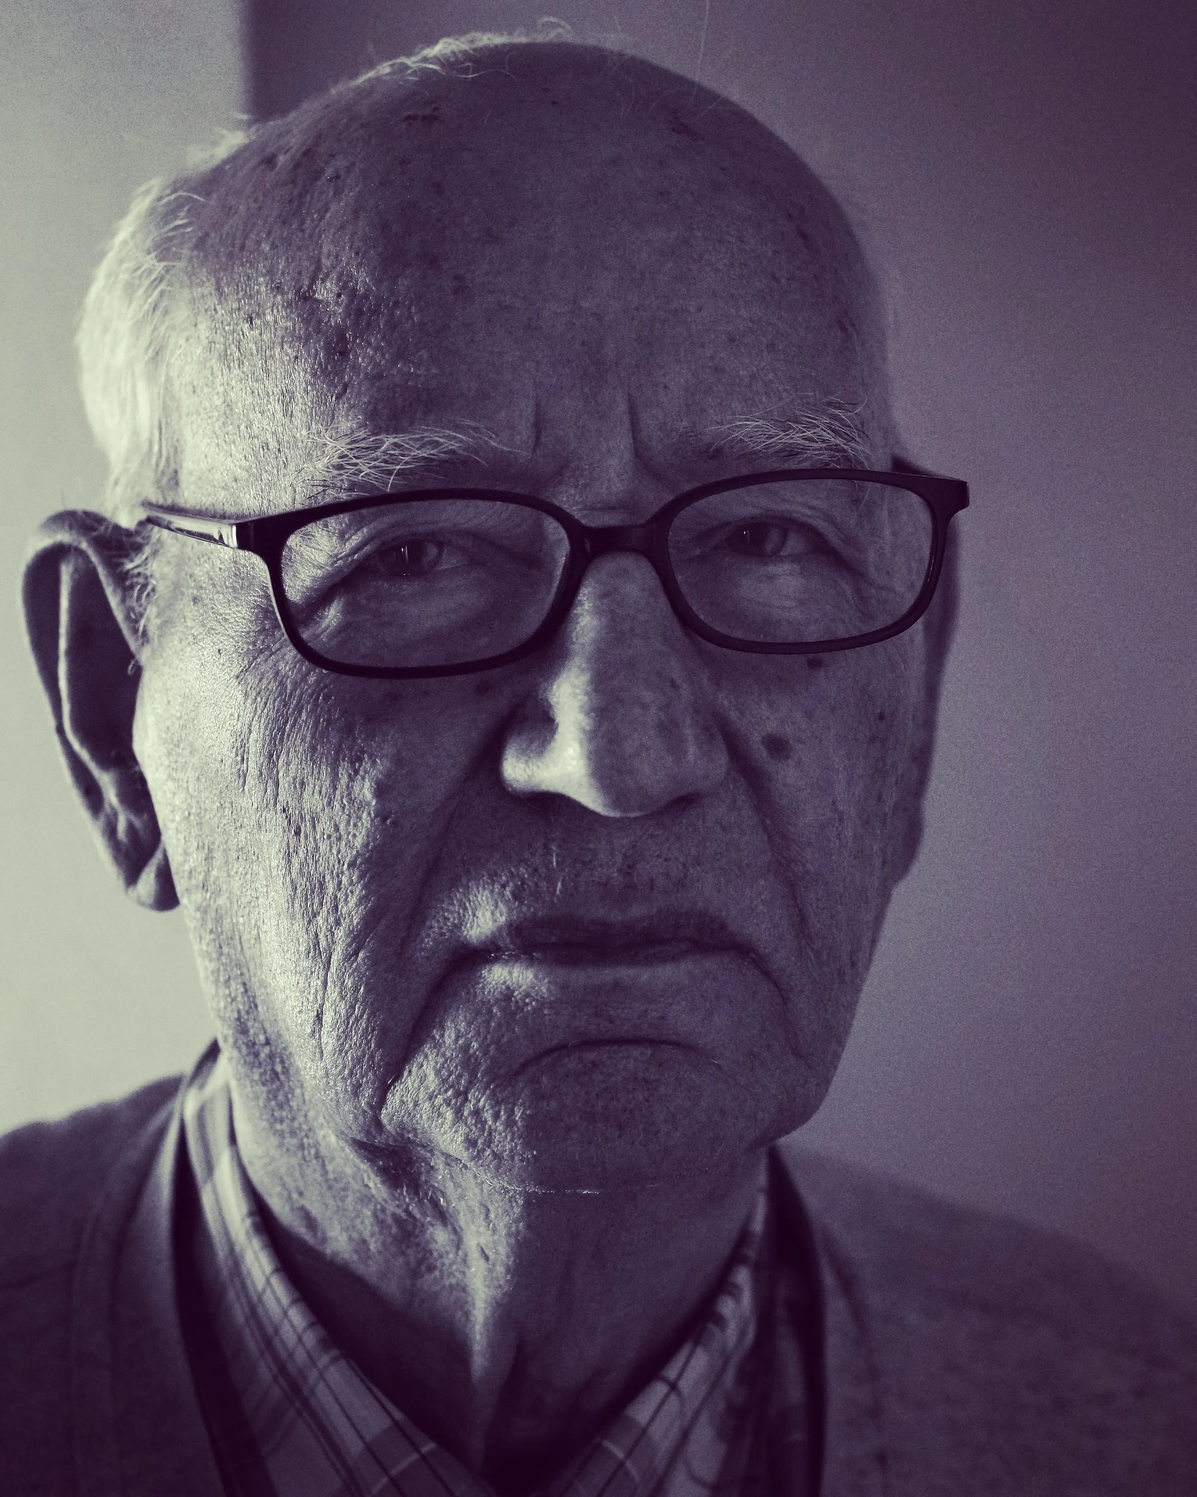
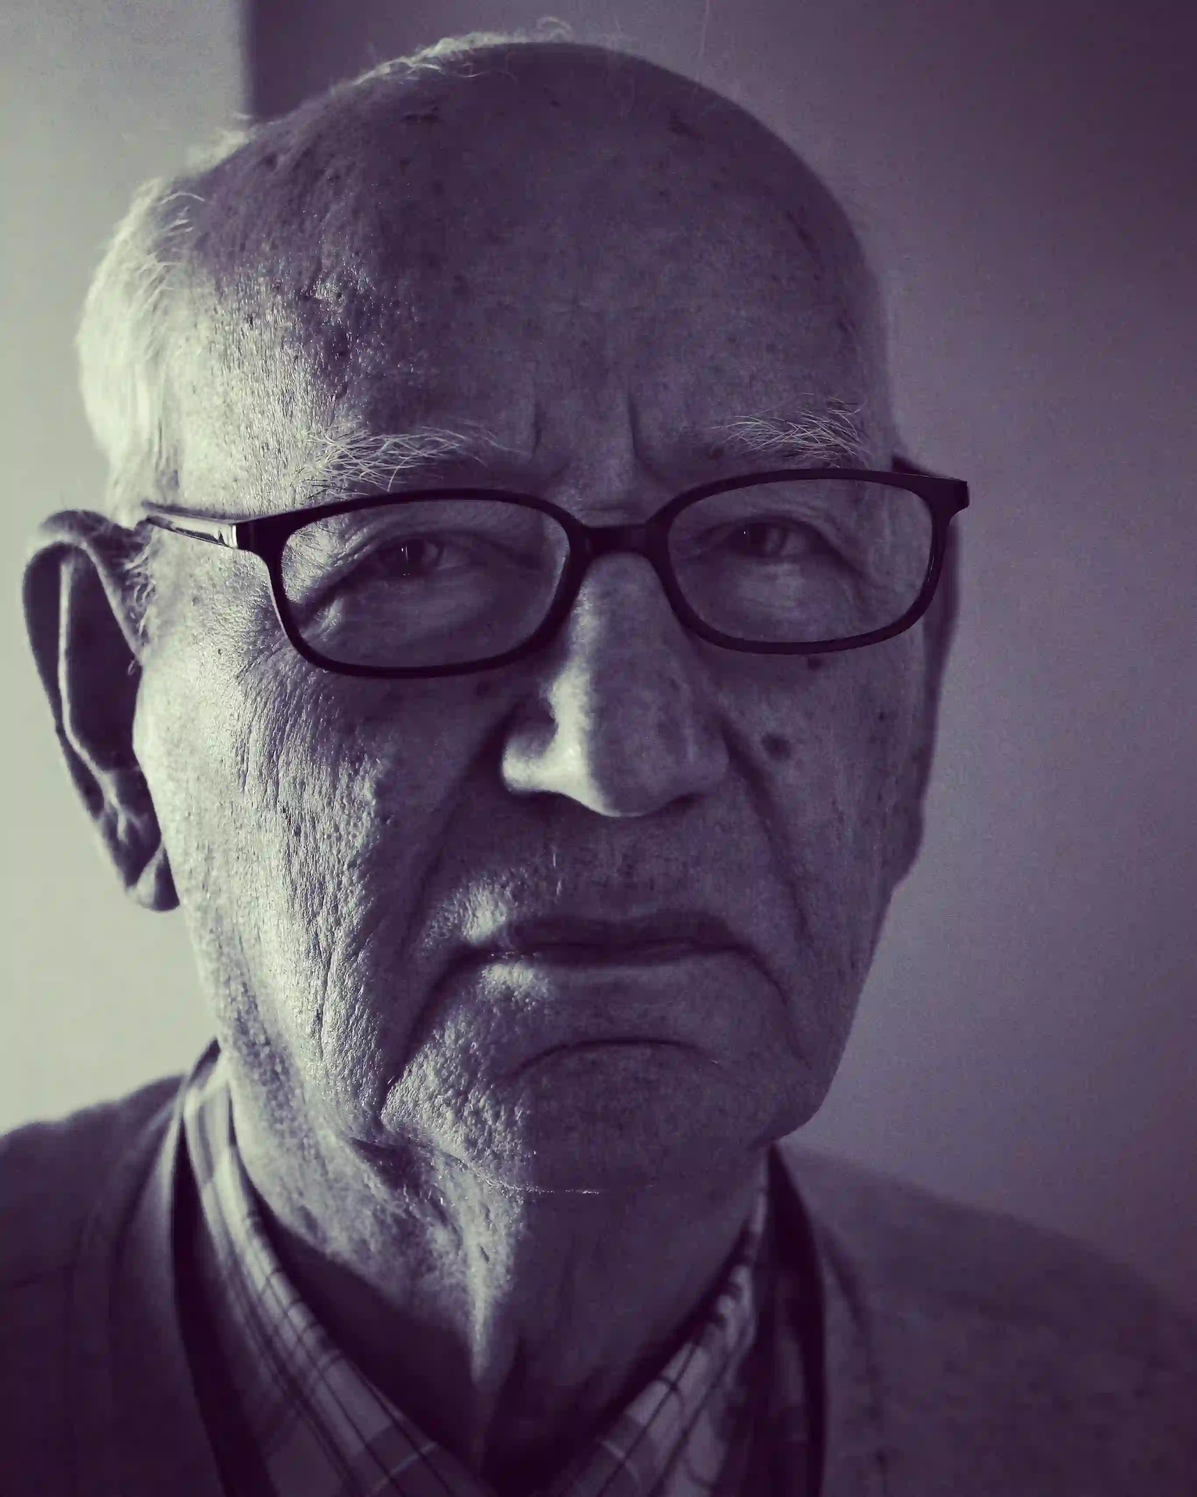
compress pics

Changed region(s): [[0.1556, 0.1863, 0.4357, 0.8073], [0.6536, 0.2794, 0.7159, 0.3105]]

diff --git a/css/style.css b/css/style.css
@@ -1,1 +1,1 @@
-.main-info p,.main-info__title,.nav__link.active{text-align:center}header .header__content,header .header__user-block{display:flex;display:flex;display:flex;display:flex}header .header__menu li a,header .header__user-block a{display:block}main .actors .swiper-slide:nth-child(3) img,main .main-info__bg{object-position:top}:root{--mar-reg:"Marcellus-Regular",sans-serif;--mul-reg:"Mulish-Regular",sans-serif;--mul-sem-bld:"Mulish-SemiBold",sans-serif;--mul-ext-bld:"Mulish-ExtraBold",sans-serif}*{box-sizing:border-box}img{max-width:100%}body{font-family:var(--mar-reg);background-color:#000;margin:unset}a{text-decoration:unset}ul{padding:unset}h2{font-family:var(--mul-sem-bld);font-size:20px}h1,p,span{color:#fff}.actors .actors__block,.genres .genres__block,button,li a{cursor:pointer}.actors .actors__block:hover,.genres .genres__block:hover,button:hover{transform:scale(1.05)}li:hover a{color:#fff!important;opacity:1!important}.main-info__rating,.news .news__block p,.registrate h2,button{font-family:var(--mul-ext-bld)!important;border:unset}.main-info__sub-title{font-family:var(--mul-reg);color:#c2c2c2;font-size:18px}.actors .swiper-slide p,.genres p,.nav__link,.trending__title{font-family:var(--mul-sem-bld)}.wrapper{padding:0 16px;overflow:hidden;max-width:1600px;margin:0 auto}.nav__link.active{opacity:1;padding-bottom:5px;background:linear-gradient(to left,#26fff2 50%,#326cff 100%) left bottom no-repeat;background-size:100% 2px}header .header__content{padding:16px 0;position:relative;align-items:center}.footer,header .header__menu{margin:0 -16px;padding:0 16px}header .header__home{width:100px}header .header__menu{position:absolute;bottom:-140px;width:-webkit-fill-available;width:-moz-available;left:0;backdrop-filter:blur(5px);z-index:2;text-align:center}header .header__menu li{margin-bottom:10px}header .header__user-block{justify-content:space-between;width:30%;margin:0 auto}header .header__menu{display:none}header .header__menu a{color:#fff}header .header__burger{display:flex;justify-content:flex-end;background:unset;padding:unset;border:unset!important}header .header__burger #nav-icon1{width:30px;height:45px;position:relative;-webkit-transform:rotate(0);-moz-transform:rotate(0);-o-transform:rotate(0);transform:rotate(0);-webkit-transition:.5s ease-in-out;-moz-transition:.5s ease-in-out;-o-transition:.5s ease-in-out;transition:.5s ease-in-out;cursor:pointer}header .header__burger #nav-icon1 span,header .header__burger #nav-icon3 span,header .header__burger #nav-icon4 span{display:block;position:absolute;height:3px;width:100%;background:#fff;border-radius:9px;opacity:1;left:0;-webkit-transform:rotate(0);-moz-transform:rotate(0);-o-transform:rotate(0);transform:rotate(0);-webkit-transition:.25s ease-in-out;-moz-transition:.25s ease-in-out;-o-transition:.25s ease-in-out;transition:.25s ease-in-out}header .header__burger #nav-icon1 span:first-child{top:10px}header .header__burger #nav-icon1 span:nth-child(2){top:20px}header .header__burger #nav-icon1 span:nth-child(3){top:30px}header .header__burger #nav-icon1.open span:first-child{top:18px;-webkit-transform:rotate(135deg);-moz-transform:rotate(135deg);-o-transform:rotate(135deg);transform:rotate(135deg)}header .header__burger #nav-icon1.open span:nth-child(2){opacity:0;left:-60px}header .header__burger #nav-icon1.open span:nth-child(3){top:18px;-webkit-transform:rotate(-135deg);-moz-transform:rotate(-135deg);-o-transform:rotate(-135deg);transform:rotate(-135deg)}main .section,main .trending{margin-bottom:50px}main .section h2{color:#fff;position:relative;padding-left:19px}main .section h2::before{content:"";position:absolute;left:0;top:0;width:6px;height:100%;background:linear-gradient(261deg,#26fff2,#326cff) border-box;border-radius:5px}main .section h2 span{height:20px;display:inline-block;width:20px;position:relative;top:4px}main .section h2 span::after,main .section h2 span::before{position:absolute;border-radius:.5px;content:"";display:inline-block;width:10px;height:2px;background-color:#fff;top:50%;transform-origin:100%}main .section h2 span::before{transform:rotate(45deg) translate(0,-50%)}main .section h2 span::after{transform:rotate(-45deg) translate(2px,-50%)}main .main-info{overflow:hidden;margin:0 -16px 50px;padding:0 16px 30px;position:relative;display:flex;flex-direction:column;align-items:center;max-height:400px;height:130vw;justify-content:space-between}main .main-info__bg{position:absolute;z-index:-1;left:0;opacity:.5;object-fit:cover}main .main-info__title{font-size:35px;margin:27px;max-width:300px}main .main-info__sub-title{max-width:500px}main .main-info__rating{display:flex;justify-content:space-around;width:100%;max-width:300px}main .main-info__buttons .watch,main .registrate__btn,main .trending__btn{align-items:center;background:linear-gradient(#26fff2,#326cff);margin-right:25px;color:#fff;display:flex}main .main-info__rating span:nth-child(2){position:relative;padding:1px 15px}main .main-info__rating span:nth-child(2)::before{content:"";position:absolute;top:0;left:0;right:0;bottom:0;border-radius:50px;border:2px solid transparent;background:linear-gradient(320deg,#26fff2,#326cff) border-box;-webkit-mask:linear-gradient(#fff 0 0) padding-box,linear-gradient(#fff 0 0);-webkit-mask-composite:destination-out;mask-composite:exclude}main .main-info__buttons{display:flex}main .main-info__buttons button{padding:10px 15px;border-radius:30px}main .main-info__buttons .watch img{width:14px;margin-right:10px}main .main-info__buttons .more-inf{background-color:#fff}main .trending__container .block img{border-radius:20px;height:100%}main .registrate__btn,main .trending__btn{margin-top:15px;padding:10px 15px;border-radius:30px}main .genres__block{display:flex;align-items:center;flex-direction:column;justify-content:center;border-radius:20px;padding:25px 0 0}main .genres__block img{width:84px;height:84px}main .genres .romance{background:linear-gradient(152deg,#fd093f 0,#f383f1 100%)}main .genres .drama{background:linear-gradient(152deg,#0fffda 0,#3cdb77 100%)}main .genres .historical{background:linear-gradient(152deg,#b936ff 0,#57deda 100%)}main .genres .action{background:linear-gradient(152deg,#fd093f 1%,#fb1378 10%,#fccb1a 100%)}main .genres .sci-fi{background:linear-gradient(152deg,#ff6472 10%,#fda75d 100%)}main .genres .horror{background:linear-gradient(126deg,#13547a 7%,#80d0c7 156%)}main .genres .comedy{background:linear-gradient(90deg,#fff77b 0,#ffbf42 30%)}main .genres .documentary{background:linear-gradient(152deg,#1fa2ff 10%,#1fa2ff 10%,#1f535c 100%)}main .actors .swiper-slide{display:flex;flex-direction:column;align-items:center}main .actors__block{width:190px;overflow:hidden;border-radius:50%;height:190px;position:relative}main .actors__block img{border-radius:50%;object-fit:cover;width:100%;height:190px}main .actors .swiper-slide:first-child img{transform:scale(1.3);position:absolute;bottom:-30px;left:5px}main .actors .swiper-slide:nth-child(2) img{transform:scale(1.8);position:absolute;bottom:-70px}main .actors .swiper-slide:nth-child(4) img{-webkit-transform:scaleX(-1);transform:scaleX(-1)}main .actors .swiper-slide:nth-child(5) img{transform:scale(1.1);position:absolute;height:auto;top:-25px}main .actors .swiper-slide:nth-child(6) img{transform:scale(2.2);position:absolute;height:auto;top:120px;left:30px}main .news__block{min-height:150px;display:flex}main .news__block:first-child img{border-radius:10px 10px 0 0}main .news__block:nth-child(2){justify-content:center;height:48vw;display:flex;flex-direction:column;align-items:center;background:linear-gradient(90deg,#070e3d 0,#04071f 28%,#000 65%);border-radius:0 0 10px 10px}main .news__block:nth-child(2) p{font-size:30px;margin:10px 0}main .news__block:nth-child(2) img{width:50vw;max-width:400px}main .registrate{background:url("../img/registrate-bg.png") center no-repeat;min-height:270px;display:flex;flex-direction:column;align-items:center;justify-content:center;border-radius:20px}main .registrate h2{all:unset;color:#fff;font-size:28px;font-weight:700;line-height:normal;text-align:center!important;margin-bottom:20px}main .registrate h2::before{content:unset}.footer{background-color:#101012}.footer__container{padding:20px 0;display:flex;flex-direction:column;align-items:center;justify-content:center}.footer__container a{color:#c2c2c2;opacity:.5;display:block;padding:5px 0}.footer__block:first-child a{opacity:1}.footer__block:nth-child(2){display:flex;flex-wrap:wrap}.footer__block:nth-child(2) ul{width:50%}.footer__block:nth-child(2) ul li{display:block;list-style:unset}.footer__block:nth-child(2) ul li a{display:block}@media (min-width:1200px){h2{font-size:28px;margin-bottom:40px}.wrapper{padding:0 80px}header{padding:15px 0}header .header__content{display:grid;grid-template-columns:repeat(5,1fr);grid-template-rows:1fr;grid-column-gap:0px;grid-row-gap:0px;justify-items:end;align-items:center;padding:unset}header .header__home{grid-area:1/1/2/2;width:100%}header .header__menu{grid-area:1/2/2/5}header .header__menu,header .header__user-block{display:flex}header .header__burger{display:none}header .header__menu{display:flex;width:100%;justify-content:center;position:unset}header .header__menu ul{padding:unset;max-width:385px;display:flex;width:100%;justify-content:space-between}header .header__menu ul li a{color:#fff;opacity:.5}header .header__user-block{grid-area:1/5/2/6;display:flex;justify-content:space-between;width:100%;max-width:207px}main .main-info{margin:0 -80px 62px 0;max-height:unset;height:764px;align-items:flex-start;justify-content:center}main .main-info__title{text-align:start;font-size:80px;line-height:70px;width:532px;font-weight:400;margin-bottom:32px;max-width:unset;margin-left:unset}main .main-info__sub-title{text-align:start;margin:35px 0}main .main-info__bg{left:unset;right:0;opacity:1;overflow:auto;-webkit-mask-image:linear-gradient(90deg,transparent 5%,rgb(0,0,0) 15%,rgb(0,0,0) 44%,transparent 500%)}main .main-info__rating{justify-content:flex-start}main .main-info__rating span{margin-right:18px}main .main-info__rating span:last-child{margin-left:40px;margin-right:unset}main .main-info__buttons button{padding:15px 30px;font-size:16px}main .trending{margin-bottom:100px}main .trending__title{margin-bottom:40px}main .trending__container{margin-bottom:60px}main .trending__container .block img{max-height:310px}main .trending__btn{padding:15px 34px;font-size:16px}main .genres__container{display:flex;flex-wrap:wrap;gap:10px}main .genres__block{width:24.2%;min-height:198px}main .genres__block p{font-size:28px}main .actors__container{justify-content:space-between}main .actors .swiper-slide{width:fit-content}main .news{margin-bottom:121px}main .news__container{display:flex;flex-direction:row}main .news__block{width:50%;height:392px!important}main .news__block:first-child img{border-radius:10px 0 0 10px}main .news__block:nth-child(2){border-radius:0 10px 10px 0}main .news__block:nth-child(2) img{max-width:294px;margin-bottom:15px}main .news__block:nth-child(2) p{font-size:64px}main .registrate{flex-direction:row;max-width:1224px;margin:0 auto 121px;justify-content:space-around}main .registrate h2{font-size:64px;max-width:800px;text-align:center;text-align:start!important}main .registrate__btn{font-size:16px;padding:15px 18px}.footer{margin:0 -80px;padding:70px 80px}.footer__container{align-items:flex-start;max-width:1224px;margin:0 auto;flex-direction:row;justify-content:space-between;padding:unset;padding-left:70px}.footer__block:first-child{margin-top:10px}.footer__block:nth-child(2){width:80%}.footer__block:nth-child(2) ul{width:25%;margin-top:unset}}
+.main-info p,.main-info__title,.nav__link.active{text-align:center}header .header__content,header .header__user-block{display:flex;display:flex;display:flex;display:flex}header .header__menu li a,header .header__user-block a{display:block}main .actors .swiper-slide:nth-child(3) img,main .main-info__bg{object-position:top}:root{--mar-reg:"Marcellus-Regular",sans-serif;--mul-reg:"Mulish-Regular",sans-serif;--mul-sem-bld:"Mulish-SemiBold",sans-serif;--mul-ext-bld:"Mulish-ExtraBold",sans-serif}*{box-sizing:border-box}img{max-width:100%}body{font-family:var(--mar-reg);background-color:#000;margin:unset}a{text-decoration:unset}ul{padding:unset}h2{font-family:var(--mul-sem-bld);font-size:20px}h1,p,span{color:#fff}.actors .actors__block,.genres .genres__block,button,li a{cursor:pointer}.actors .actors__block:hover,.genres .genres__block:hover,button:hover{transform:scale(1.05)}li:hover a{color:#fff!important;opacity:1!important}.main-info__rating,.news .news__block p,.registrate h2,button{font-family:var(--mul-ext-bld)!important;border:unset}.main-info__sub-title{font-family:var(--mul-reg);color:#c2c2c2;font-size:18px}.actors .swiper-slide p,.genres p,.nav__link,.trending__title{font-family:var(--mul-sem-bld)}.wrapper{padding:0 16px;overflow:hidden;max-width:1600px;margin:0 auto}.nav__link.active{opacity:1;padding-bottom:5px;background:linear-gradient(to left,#26fff2 50%,#326cff 100%) left bottom no-repeat;background-size:100% 2px}header .header__content{padding:16px 0;position:relative;align-items:center}.footer,header .header__menu{margin:0 -16px;padding:0 16px}header .header__home{width:100px}header .header__menu{position:absolute;bottom:-140px;width:-webkit-fill-available;width:-moz-available;left:0;backdrop-filter:blur(5px);z-index:2;text-align:center}header .header__menu li{margin-bottom:10px}header .header__user-block{justify-content:space-between;width:30%;margin:0 auto}header .header__menu{display:none}header .header__menu a{color:#fff}header .header__burger{display:flex;justify-content:flex-end;background:unset;padding:unset;border:unset!important}header .header__burger #nav-icon1{width:30px;height:45px;position:relative;-webkit-transform:rotate(0);-moz-transform:rotate(0);-o-transform:rotate(0);transform:rotate(0);-webkit-transition:.5s ease-in-out;-moz-transition:.5s ease-in-out;-o-transition:.5s ease-in-out;transition:.5s ease-in-out;cursor:pointer}header .header__burger #nav-icon1 span,header .header__burger #nav-icon3 span,header .header__burger #nav-icon4 span{display:block;position:absolute;height:3px;width:100%;background:#fff;border-radius:9px;opacity:1;left:0;-webkit-transform:rotate(0);-moz-transform:rotate(0);-o-transform:rotate(0);transform:rotate(0);-webkit-transition:.25s ease-in-out;-moz-transition:.25s ease-in-out;-o-transition:.25s ease-in-out;transition:.25s ease-in-out}header .header__burger #nav-icon1 span:first-child{top:10px}header .header__burger #nav-icon1 span:nth-child(2){top:20px}header .header__burger #nav-icon1 span:nth-child(3){top:30px}header .header__burger #nav-icon1.open span:first-child{top:18px;-webkit-transform:rotate(135deg);-moz-transform:rotate(135deg);-o-transform:rotate(135deg);transform:rotate(135deg)}header .header__burger #nav-icon1.open span:nth-child(2){opacity:0;left:-60px}header .header__burger #nav-icon1.open span:nth-child(3){top:18px;-webkit-transform:rotate(-135deg);-moz-transform:rotate(-135deg);-o-transform:rotate(-135deg);transform:rotate(-135deg)}main .section,main .trending{margin-bottom:50px}main .section h2{color:#fff;position:relative;padding-left:19px}main .section h2::before{content:"";position:absolute;left:0;top:0;width:6px;height:100%;background:linear-gradient(261deg,#26fff2,#326cff) border-box;border-radius:5px}main .section h2 span{height:20px;display:inline-block;width:20px;position:relative;top:4px}main .section h2 span::after,main .section h2 span::before{position:absolute;border-radius:.5px;content:"";display:inline-block;width:10px;height:2px;background-color:#fff;top:50%;transform-origin:100%}main .section h2 span::before{transform:rotate(45deg) translate(0,-50%)}main .section h2 span::after{transform:rotate(-45deg) translate(2px,-50%)}main .main-info{overflow:hidden;margin:0 -16px 50px;padding:0 16px 30px;position:relative;display:flex;flex-direction:column;align-items:center;max-height:400px;height:130vw;justify-content:space-between}main .main-info__bg{position:absolute;z-index:-1;left:0;opacity:.5;object-fit:cover}main .main-info__title{font-size:35px;margin:27px;max-width:300px}main .main-info__sub-title{max-width:500px}main .main-info__rating{display:flex;justify-content:space-around;width:100%;max-width:300px}main .main-info__buttons .watch,main .registrate__btn,main .trending__btn{align-items:center;background:linear-gradient(#26fff2,#326cff);margin-right:25px;color:#fff;display:flex}main .main-info__rating span:nth-child(2){position:relative;padding:1px 15px}main .main-info__rating span:nth-child(2)::before{content:"";position:absolute;top:0;left:0;right:0;bottom:0;border-radius:50px;border:2px solid transparent;background:linear-gradient(320deg,#26fff2,#326cff) border-box;-webkit-mask:linear-gradient(#fff 0 0) padding-box,linear-gradient(#fff 0 0);-webkit-mask-composite:destination-out;mask-composite:exclude}main .main-info__buttons{display:flex}main .main-info__buttons button{padding:10px 15px;border-radius:30px}main .main-info__buttons .watch img{width:14px;margin-right:10px}main .main-info__buttons .more-inf{background-color:#fff}main .trending__container .block img{border-radius:20px;height:100%}main .registrate__btn,main .trending__btn{margin-top:15px;padding:10px 15px;border-radius:30px}main .genres__block{display:flex;align-items:center;flex-direction:column;justify-content:center;border-radius:20px;padding:25px 0 0}main .genres__block img{width:84px;height:84px}main .genres .romance{background:linear-gradient(152deg,#fd093f 0,#f383f1 100%)}main .genres .drama{background:linear-gradient(152deg,#0fffda 0,#3cdb77 100%)}main .genres .historical{background:linear-gradient(152deg,#b936ff 0,#57deda 100%)}main .genres .action{background:linear-gradient(152deg,#fd093f 1%,#fb1378 10%,#fccb1a 100%)}main .genres .sci-fi{background:linear-gradient(152deg,#ff6472 10%,#fda75d 100%)}main .genres .horror{background:linear-gradient(126deg,#13547a 7%,#80d0c7 156%)}main .genres .comedy{background:linear-gradient(90deg,#fff77b 0,#ffbf42 30%)}main .genres .documentary{background:linear-gradient(152deg,#1fa2ff 10%,#1fa2ff 10%,#1f535c 100%)}main .actors .swiper-slide{display:flex;flex-direction:column;align-items:center}main .actors__block{width:190px;overflow:hidden;border-radius:50%;height:190px;position:relative}main .actors__block img{border-radius:50%;object-fit:cover;width:100%;height:190px}main .actors .swiper-slide:first-child img{transform:scale(1.3);position:absolute;bottom:-30px;left:5px}main .actors .swiper-slide:nth-child(2) img{transform:scale(1.8);position:absolute;bottom:-70px}main .actors .swiper-slide:nth-child(4) img{-webkit-transform:scaleX(-1);transform:scaleX(-1)}main .actors .swiper-slide:nth-child(5) img{transform:scale(1.1);position:absolute;height:auto;top:-25px}main .actors .swiper-slide:nth-child(6) img{transform:scale(2.2);position:absolute;height:auto;top:120px;left:30px}main .news__block{min-height:150px;display:flex}main .news__block:first-child img{border-radius:10px 10px 0 0}main .news__block:nth-child(2){justify-content:center;height:48vw;display:flex;flex-direction:column;align-items:center;background:linear-gradient(90deg,#070e3d 0,#04071f 28%,#000 65%);border-radius:0 0 10px 10px}main .news__block:nth-child(2) p{font-size:30px;margin:10px 0}main .news__block:nth-child(2) img{width:50vw;max-width:400px}main .registrate{background:url("../img/registrate-bg.webp") center no-repeat;min-height:270px;display:flex;flex-direction:column;align-items:center;justify-content:center;border-radius:20px}main .registrate h2{all:unset;color:#fff;font-size:28px;font-weight:700;line-height:normal;text-align:center!important;margin-bottom:20px}main .registrate h2::before{content:unset}.footer{background-color:#101012}.footer__container{padding:20px 0;display:flex;flex-direction:column;align-items:center;justify-content:center}.footer__container a{color:#c2c2c2;opacity:.5;display:block;padding:5px 0}.footer__block:first-child a{opacity:1}.footer__block:nth-child(2){display:flex;flex-wrap:wrap}.footer__block:nth-child(2) ul{width:50%}.footer__block:nth-child(2) ul li{display:block;list-style:unset}.footer__block:nth-child(2) ul li a{display:block}@media (min-width:1200px){h2{font-size:28px;margin-bottom:40px}.wrapper{padding:0 80px}header{padding:15px 0}header .header__content{display:grid;grid-template-columns:repeat(5,1fr);grid-template-rows:1fr;grid-column-gap:0px;grid-row-gap:0px;justify-items:end;align-items:center;padding:unset}header .header__home{grid-area:1/1/2/2;width:100%}header .header__menu{grid-area:1/2/2/5}header .header__menu,header .header__user-block{display:flex}header .header__burger{display:none}header .header__menu{display:flex;width:100%;justify-content:center;position:unset}header .header__menu ul{padding:unset;max-width:385px;display:flex;width:100%;justify-content:space-between}header .header__menu ul li a{color:#fff;opacity:.5}header .header__user-block{grid-area:1/5/2/6;display:flex;justify-content:space-between;width:100%;max-width:207px}main .main-info{margin:0 -80px 62px 0;max-height:unset;height:764px;align-items:flex-start;justify-content:center}main .main-info__title{text-align:start;font-size:80px;line-height:70px;width:532px;font-weight:400;margin-bottom:32px;max-width:unset;margin-left:unset}main .main-info__sub-title{text-align:start;margin:35px 0}main .main-info__bg{left:unset;right:0;opacity:1;overflow:auto;-webkit-mask-image:linear-gradient(90deg,transparent 5%,rgb(0,0,0) 15%,rgb(0,0,0) 44%,transparent 500%)}main .main-info__rating{justify-content:flex-start}main .main-info__rating span{margin-right:18px}main .main-info__rating span:last-child{margin-left:40px;margin-right:unset}main .main-info__buttons button{padding:15px 30px;font-size:16px}main .trending{margin-bottom:100px}main .trending__title{margin-bottom:40px}main .trending__container{margin-bottom:60px}main .trending__container .block img{max-height:310px}main .trending__btn{padding:15px 34px;font-size:16px}main .genres__container{display:flex;flex-wrap:wrap;gap:10px}main .genres__block{width:24.2%;min-height:198px}main .genres__block p{font-size:28px}main .actors__container{justify-content:space-between}main .actors .swiper-slide{width:fit-content}main .news{margin-bottom:121px}main .news__container{display:flex;flex-direction:row}main .news__block{width:50%;height:392px!important}main .news__block:first-child img{border-radius:10px 0 0 10px}main .news__block:nth-child(2){border-radius:0 10px 10px 0}main .news__block:nth-child(2) img{max-width:294px;margin-bottom:15px}main .news__block:nth-child(2) p{font-size:64px}main .registrate{flex-direction:row;max-width:1224px;margin:0 auto 121px;justify-content:space-around}main .registrate h2{font-size:64px;max-width:800px;text-align:center;text-align:start!important}main .registrate__btn{font-size:16px;padding:15px 18px}.footer{margin:0 -80px;padding:70px 80px}.footer__container{align-items:flex-start;max-width:1224px;margin:0 auto;flex-direction:row;justify-content:space-between;padding:unset;padding-left:70px}.footer__block:first-child{margin-top:10px}.footer__block:nth-child(2){width:80%}.footer__block:nth-child(2) ul{width:25%;margin-top:unset}}

diff --git a/scss/style.scss b/scss/style.scss
@@ -534,7 +534,7 @@ height: 100%;
   
   }
   .registrate {
-    background: url('../img/registrate-bg.png');
+    background: url('../img/registrate-bg.webp');
     background-repeat: no-repeat;
     background-position: center;
     min-height: 270px;
